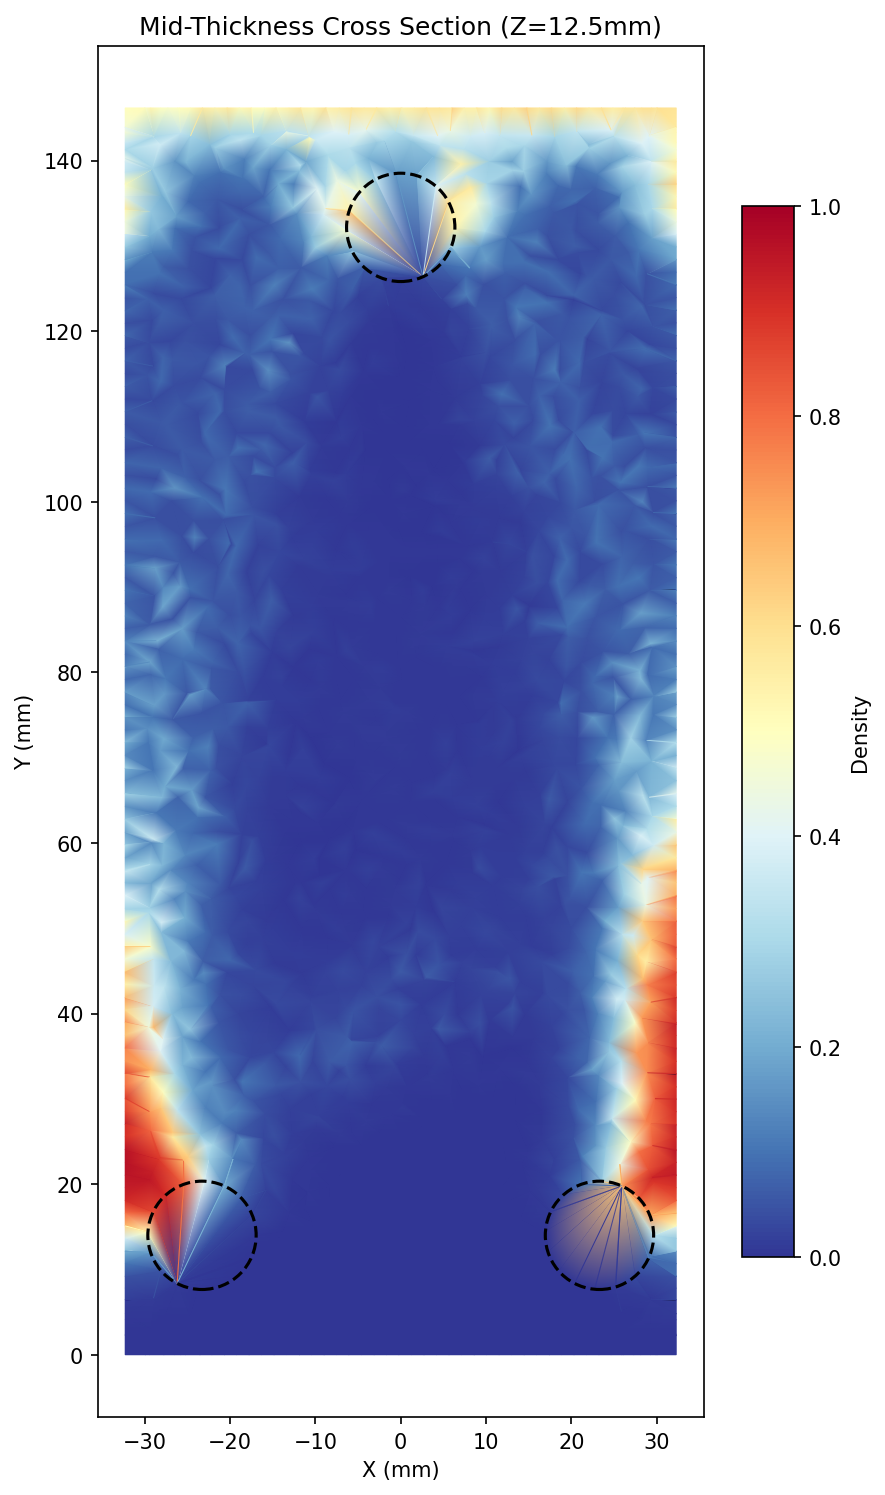
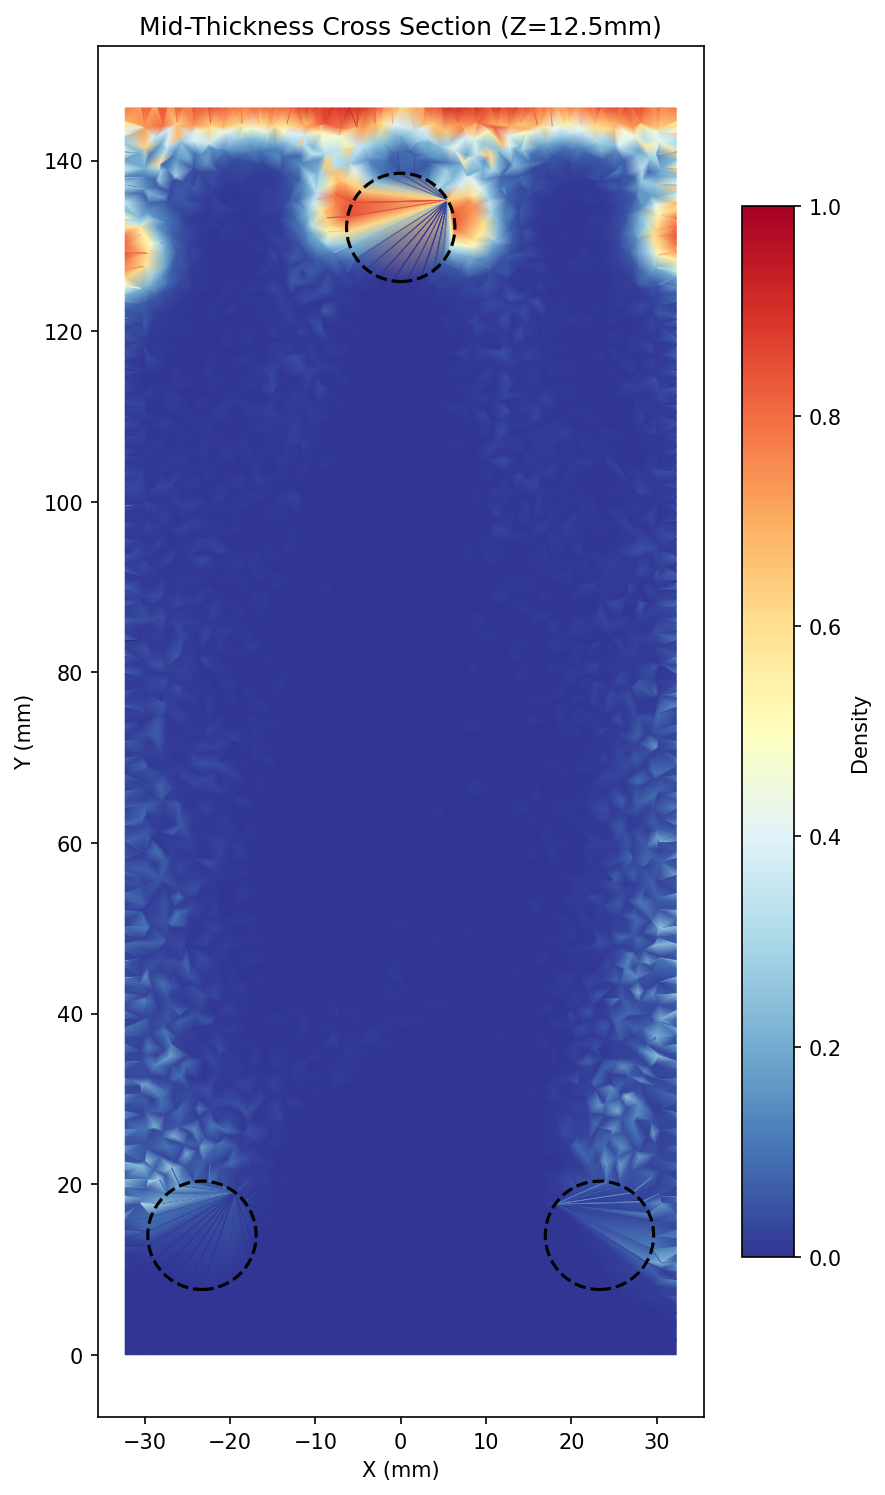
feat: fine mesh IN718 results + ParaView 3D renders
Replaced coarse 3mm results with 2mm mesh (26k nodes, 135k tets).
SIMP p=4, 150 iterations — 63% crisp (0/1) densities.
ParaView 3D renders on GPU node (A40, VisRTX): isometric, front,
mid-thickness clip views showing clear Y-bracket topology.

Changed region(s): [[0.122, 0.0615, 0.7627, 0.8615], [0.5492, 0.6462, 0.5797, 0.6769], [0.4881, 0.6769, 0.5186, 0.7077]]

diff --git a/README.md b/README.md
@@ -46,11 +46,15 @@ Reproduction of the paper's fatigue specimen using Plato instead of Abaqus+Tosca
 - **Constraint**: 30% volume fraction
 - **HPC**: 2 nodes, 3 MPI ranks, 16 OpenMP threads each
 
-| Side View (Density) | Optimized Shape | Mid-Plane Cross Section |
+| 3D Isometric (ParaView) | Front View (ParaView) | Density Field (matplotlib) |
 |---|---|---|
-| ![IN718 density](plato-tests/in718_specimen/topology_side_view.png) | ![IN718 shape](plato-tests/in718_specimen/topology_thresholded.png) | ![IN718 midplane](plato-tests/in718_specimen/topology_midplane.png) |
+| ![IN718 3D](plato-tests/in718_specimen/in718_shape_iso.png) | ![IN718 front](plato-tests/in718_specimen/in718_shape_front.png) | ![IN718 density](plato-tests/in718_specimen/topology_side_view.png) |
 
-The topology shows load paths from the upper pin to the two lower pins — matching the expected Y-bracket pattern from the Abaqus experiments.
+| Mid-Thickness Clip | Thresholded Shape |
+|---|---|
+| ![IN718 clip](plato-tests/in718_specimen/in718_midclip.png) | ![IN718 thresh](plato-tests/in718_specimen/topology_thresholded.png) |
+
+The topology shows clear Y-bracket load paths from the upper pin to the two lower pins, with void channels carved through the interior — matching the expected pattern from the Abaqus experiments. 26,543 nodes, 135,206 tet4 elements, 2mm mesh, SIMP p=4, 150 iterations.
 
 ### Abaqus vs Plato — IN718 Specimen Comparison
 
@@ -58,8 +62,8 @@ The same 3-pin fatigue specimen analyzed with both stacks:
 
 | | Abaqus (Commercial) | Plato (Open-Source) |
 |---|---|---|
-| **Geometry** | ![Abaqus geometry](paper_reproduction/experiment4/screenshots/geometry/holes_iso_view_wireframe.png) | ![Plato density](plato-tests/in718_specimen/topology_side_view.png) |
-| **Results** | ![Abaqus 20kN](paper_reproduction/experiment4/screenshots/results/results_20kN_elastic_iso.png) | ![Plato shape](plato-tests/in718_specimen/topology_thresholded.png) |
+| **Geometry** | ![Abaqus geometry](paper_reproduction/experiment4/screenshots/geometry/holes_iso_view_wireframe.png) | ![Plato 3D](plato-tests/in718_specimen/in718_shape_iso.png) |
+| **Results** | ![Abaqus 20kN](paper_reproduction/experiment4/screenshots/results/results_20kN_elastic_iso.png) | ![Plato front](plato-tests/in718_specimen/in718_shape_front.png) |
 | **Analysis type** | Static FEA (elastic-plastic, 20/60/100 kN) | Topology optimization (3 load cases, 30% volume) |
 | **Mesh** | C3D10 (quadratic tet), Abaqus CAE | Tet4 (linear tet), Gmsh + netCDF4 |
 | **Solver** | Abaqus Standard | Plato Analyze + ROL |
